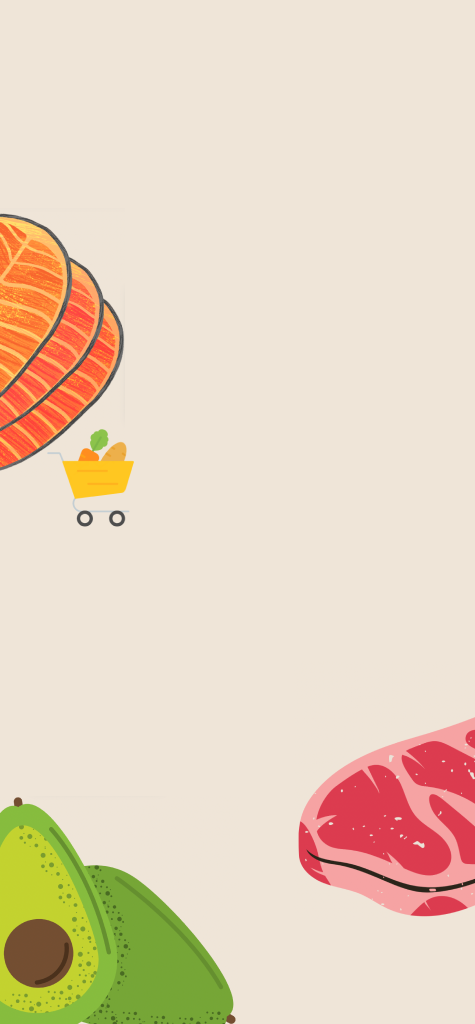
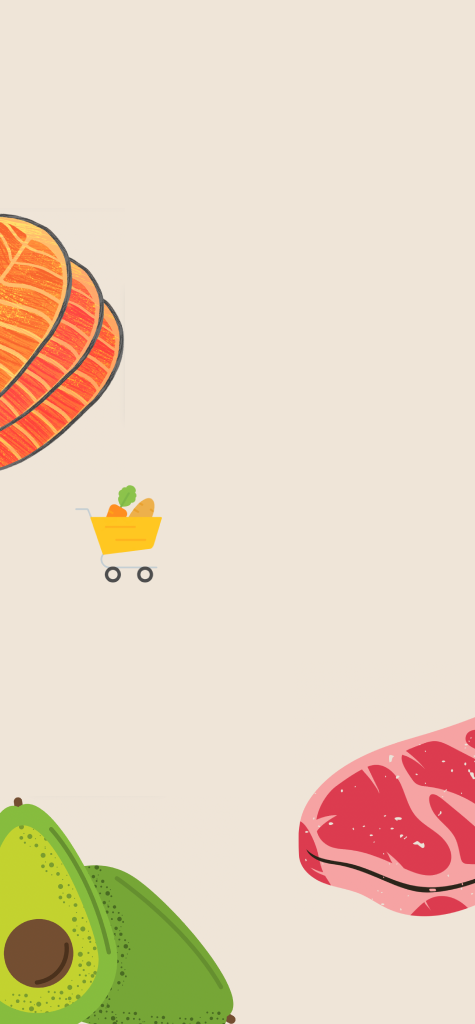
dernier commit

Changed region(s): [[0.1179, 0.4062, 0.3537, 0.5938]]

diff --git a/screens/HomeScreen.js b/screens/HomeScreen.js
@@ -112,9 +112,10 @@ const styles = StyleSheet.create({
   },
   tipsContainer: {
     backgroundColor: "#FAF9F3",
-    marginTop: 10,
+    marginTop: 20,
     borderWidth: 1,
     padding: 5,
+    paddingBottom: 20,
     borderRadius: 10,
     borderColor: "#E56400",
     width: "85%",
@@ -130,21 +131,12 @@ const styles = StyleSheet.create({
     height: "30%",
     borderRadius: 10,
     borderColor: "#E56400",
-    marginBottom: 20,
     justifyContent: "center",
     alignItems: "center",
     flexDirection: "column",
     overflow: "hidden",
-    top: -120,
-  },
-  ou: {
-    fontSize: 20,
-    fontWeight: "bold",
-    color: "#E56400",
-    marginTop: 10,
-    marginBottom: 20,
-  },
- 
+    top: -95,
+  }, 
   buttonText: {
     position: "absolute",
     marginTop: 20,
